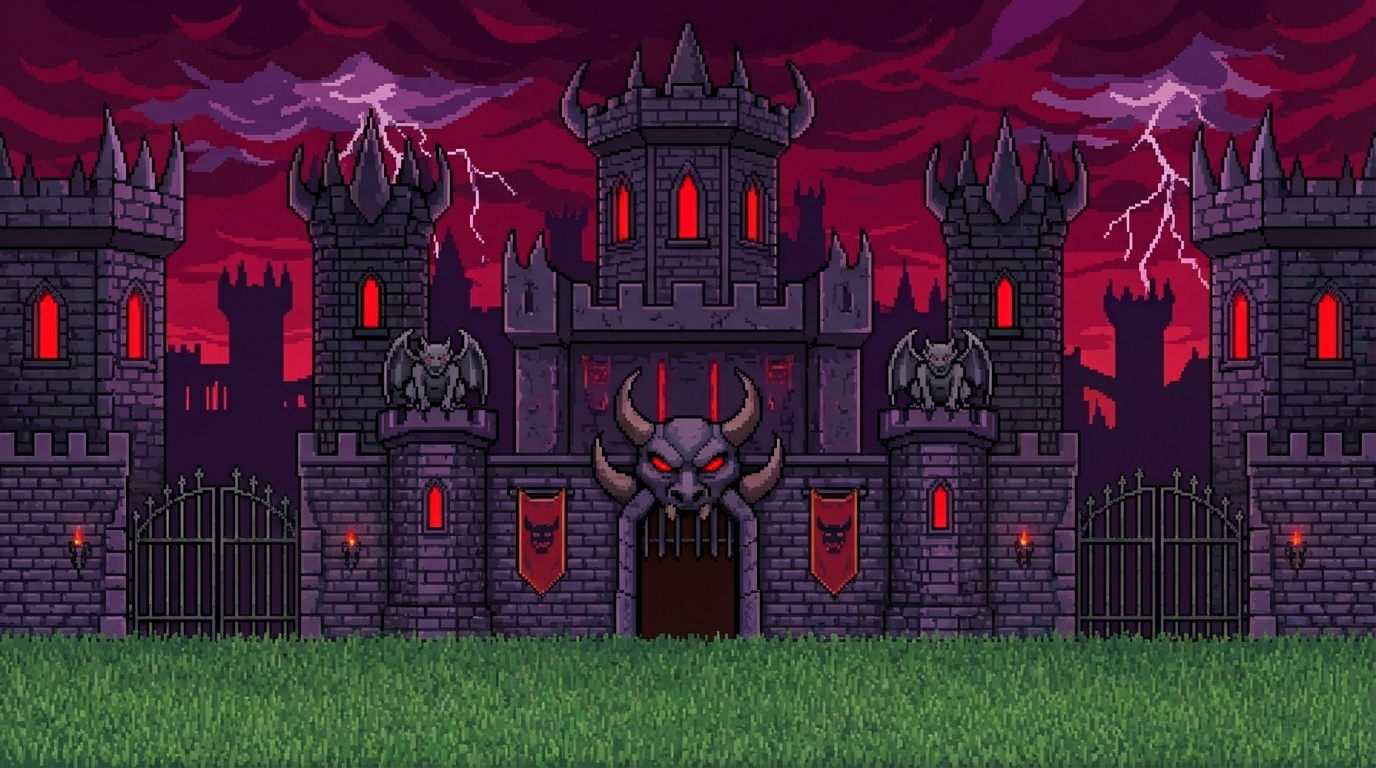
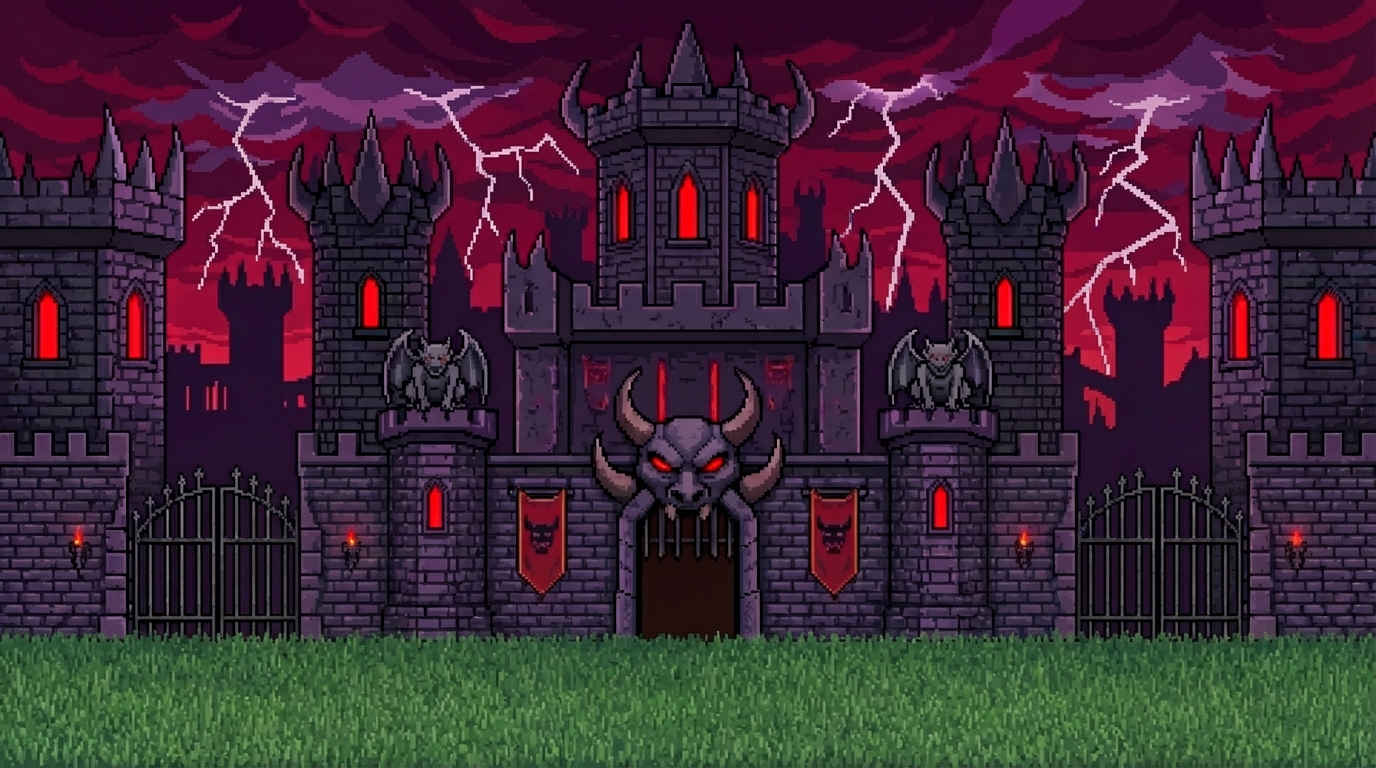
🏰 배경 이미지 교체: 잔디풀 ↔ 번개 악마 성

diff --git a/src/app/capybara/page.tsx b/src/app/capybara/page.tsx
@@ -1371,7 +1371,7 @@ export default function Home() {
               onPointerDown={bossEntering ? undefined : (e) => handleClick(e as any)}
               className="pixel-border relative overflow-hidden cursor-pointer mb-2 flex-1"
               style={{
-                backgroundImage: bgIndex === 0 ? "url('/indie-games/bg-castle-1.png')" : "url('/indie-games/bg-castle-2.jpg')",
+                backgroundImage: bgIndex === 0 ? "url('/indie-games/bg-castle-1.jpg')" : "url('/indie-games/bg-castle-2.jpg')",
                 backgroundSize: "cover",
                 backgroundPosition: "center",
                 borderColor: state.isBossFight ? "#dc2626" : state.isMonsterFight ? "#22c55e" : "#334155",
